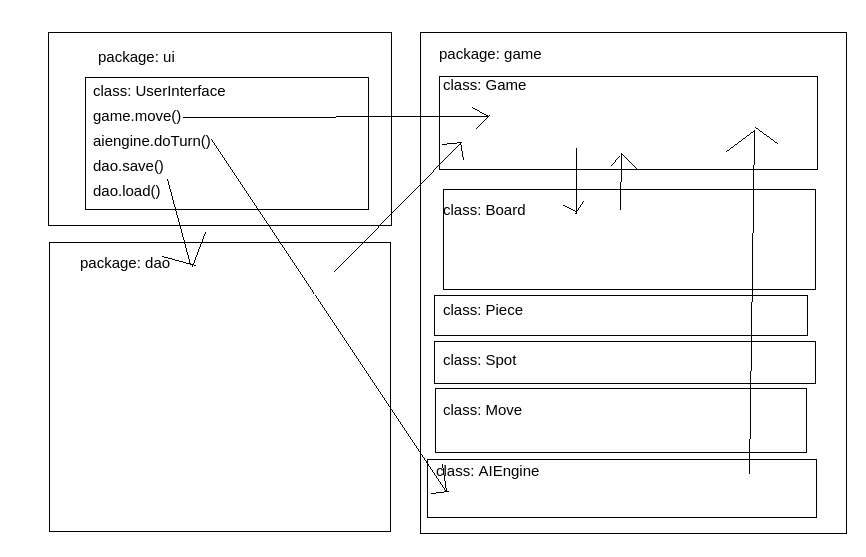
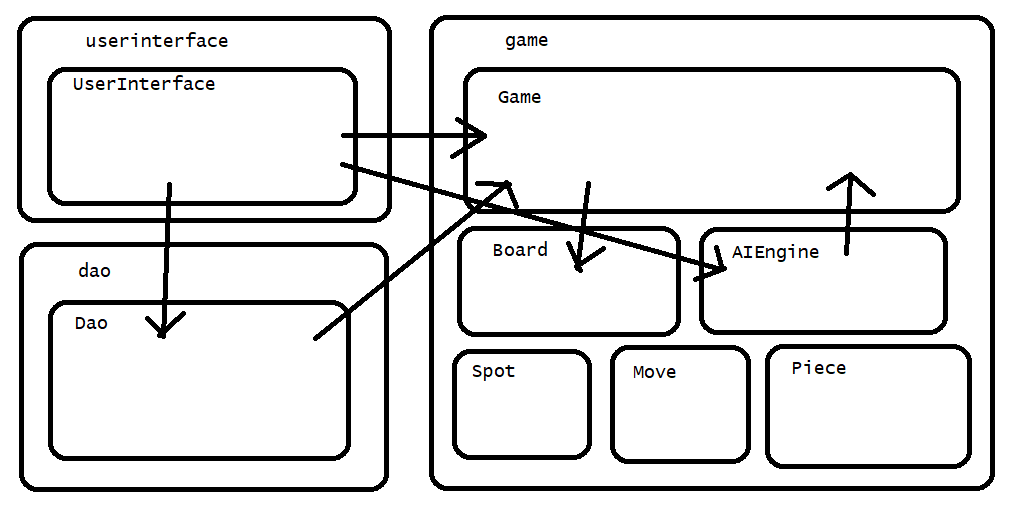
Architecture fixed

Changed region(s): [[0.0, 0.0308, 0.9977, 0.9846]]

diff --git a/documentation/architecture.md b/documentation/architecture.md
@@ -2,10 +2,10 @@
 
 ![Architecture](https://github.com/ShootingStar91/Javachess/blob/master/documentation/packagediagram.png)
 
-Main-class is here omitted, since it's only purpose is to launch UserInterface-class. It has its own package, "main".
+Main-class (and main-package) exists also but is omitted here, since it's only purpose is to launch UserInterface-class. It has its own package, "main".
 
 Packages explained:
-+ **ui** is responsible for showing user interface and telling game-class what input user has given. This all happens in UserInterface-class.
++ **userinterface** is responsible for showing user interface and telling game-class what input user has given. This all happens in UserInterface-class.
 + **game** has the game logic classes and enums, which are:
   + **Game** which handles the main logic of the chess game. It changes turns and saves each board on every turn to memory. It uses the Board-class to remember where the pieces are and interacts with it to generate all potential moves on each turn.
   + **Board** represents the chessboard with its pieces. It also saves variables that tell if the kings or rooks have been moved, which will prevent castling. It provides different methods for the Game-class to use in generating moves and checking if the game is in checkmate or not.
@@ -25,7 +25,7 @@ The interface has three different scenes:
   + Accessed by two buttons of main menu: Either game against human or AI
   + When playing against AI Engine, the processing of AIEngine-class is threaded separately so that the player will see their own move first and the AI engine will move after it has processed. Meanwhile there is an icon showing that the AI is thinking above the chessboard.
 + Loading previously saved game
-  + Has buttons of each saved game
+  + Has a list of each saved game and two buttons: watch game and return to menu
 
 The three scenes are added onto a single stage whenever they are used.
 
